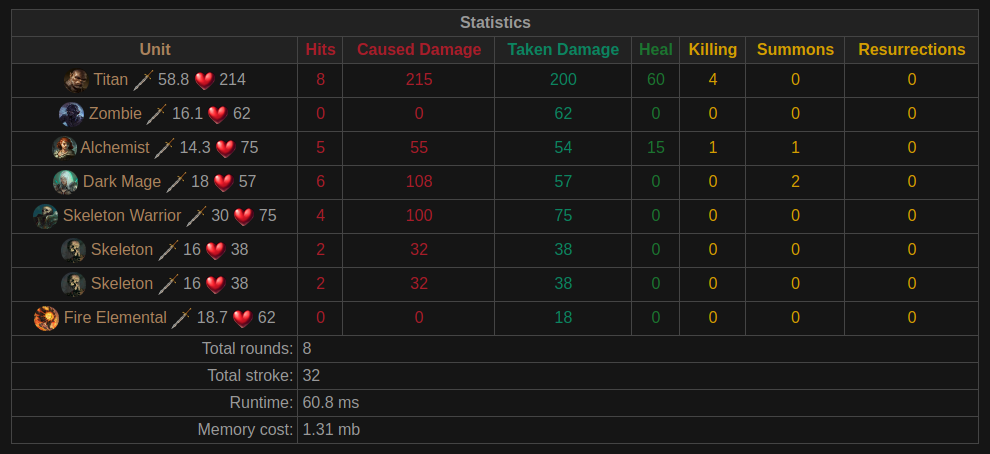
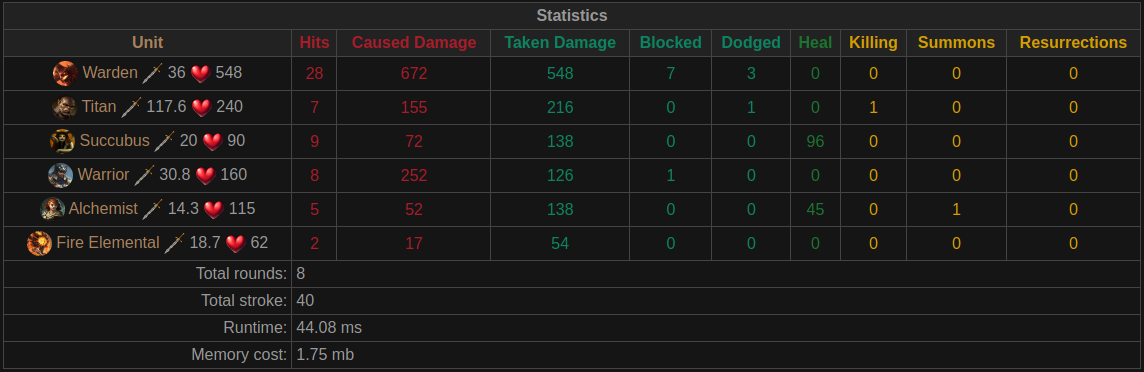
Updated README.md

diff --git a/README.md b/README.md
@@ -4,6 +4,9 @@
 ненапряженного геймплея, который можно в любой момент прекратить, а потом, когда будет удобно – продолжить, бои 
 проходят в автоматическом режиме, а игроку лишь воспроизводится результат. Т.е. прямого управления над боем нет.
 
+Текущий проект является переписыванием с нуля старой версии боевой системы, написанной в 2017 году, посмотреть которую
+в работе можно на [сайте игры](https://dwdemo2.ru/registration/github).
+
 ## Пример (1 на 1)
 
 ```php
@@ -65,13 +68,13 @@ echo $view->renderHead(); // example layout styles
 echo $view->renderResult($result);
 ```
 
-## Как выглядит бой (2 на 3)
-
-Плюс Dark Mage во время боя призвал скелета в свою (левую) команду
+## Как выглядит бой (4 игрока против босса)
 
 ![alt text](public/images/battle.png)
 
 ### Итоговая статистика
+
+Alchemist во время боя призвал Fire Elemental в свою команду – по этому в статистике появился дополнительный юнит
 
 ![alt text](public/images/statistics.png)
 
@@ -131,7 +134,7 @@ echo $view->renderResult($result);
 - Реализовать создание класса через массив параметров
 - Реализовать механику уровней способностей у класса
 - Добавить особые способности рас: (+) орки двойной урон на низком уровне здоровья, эльфы - способность уклониться от 
-атак, люди - шанс избежать смерти и восстановить 50% здоровья
+атак, (+) люди - шанс избежать смерти и восстановить 50% здоровья
 - Добавить больше разнообразных способностей
 - Расширить варианты классов, добавив новым классам новые варианты способностей
 - Сделать сайт-пример с боем

diff --git a/src/Battle/Unit/Ability/README.md b/src/Battle/Unit/Ability/README.md
@@ -15,9 +15,9 @@
 
 ## Изменения в будущем
 
-В будущем будут способности будут переделаны таким образом, что будут созданы классы на основании каждого типа 
-способности: лечение, урон, эффект, призыв и прочее, а заполняться конкретными данными они уже будут через конструктор.
-А заполняться конструктор будет через фабрику, на основе массива данных.
+В будущем способности будут переделаны таким образом, что будут созданы классы на основании каждого типа способности: 
+лечение, урон, эффект, призыв и прочее, а заполняться конкретными данными они уже будут через конструктор. А заполняться 
+конструктор будет через фабрику, на основе массива данных.
 
 Это, во-первых, избавит от необходимости на каждую способность создавать отдельный класс, во вторых, даст возможность
 создавать несколько разных уровней одной и той же способности. Ну а также это позволит все данные по способностям 
